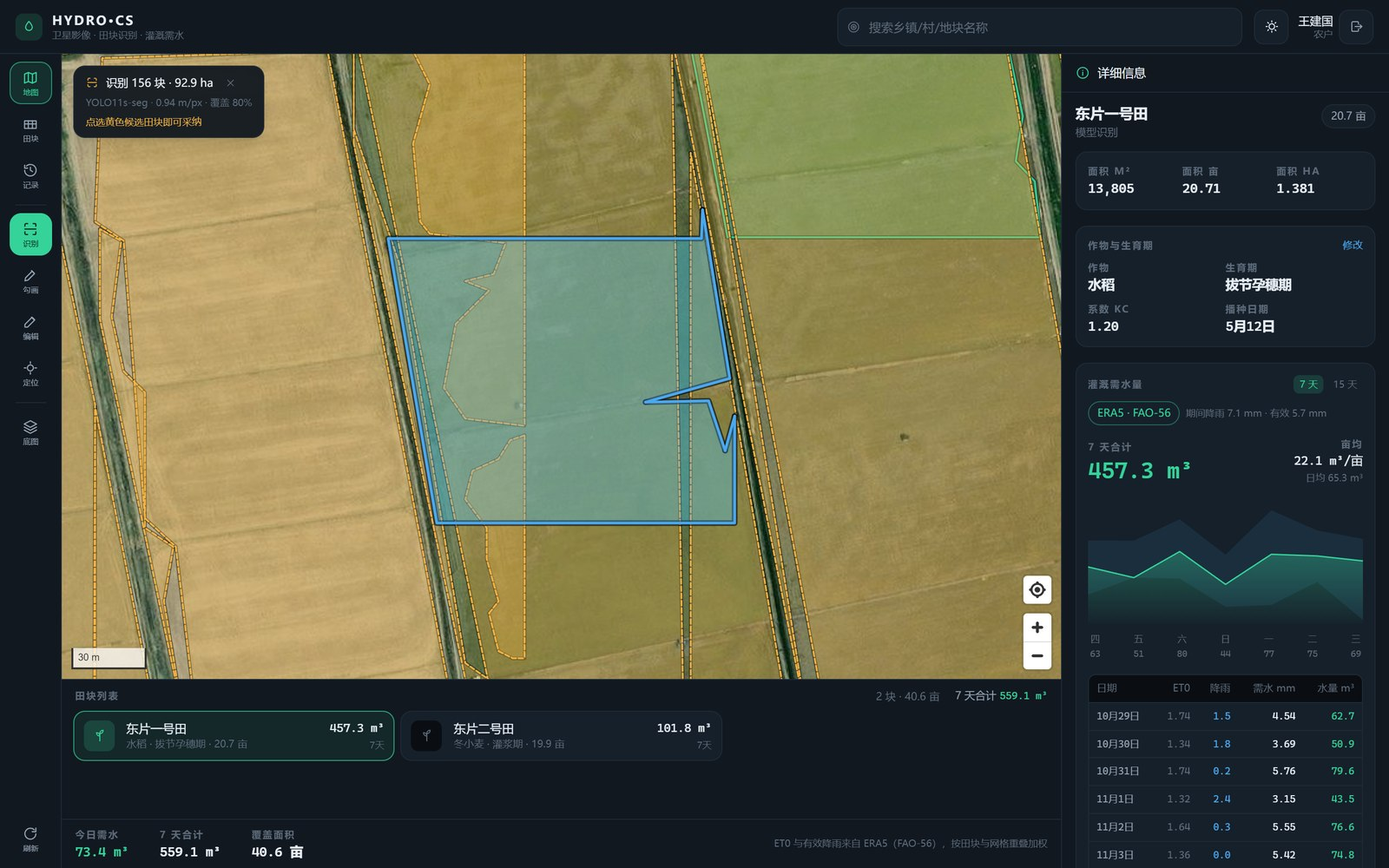
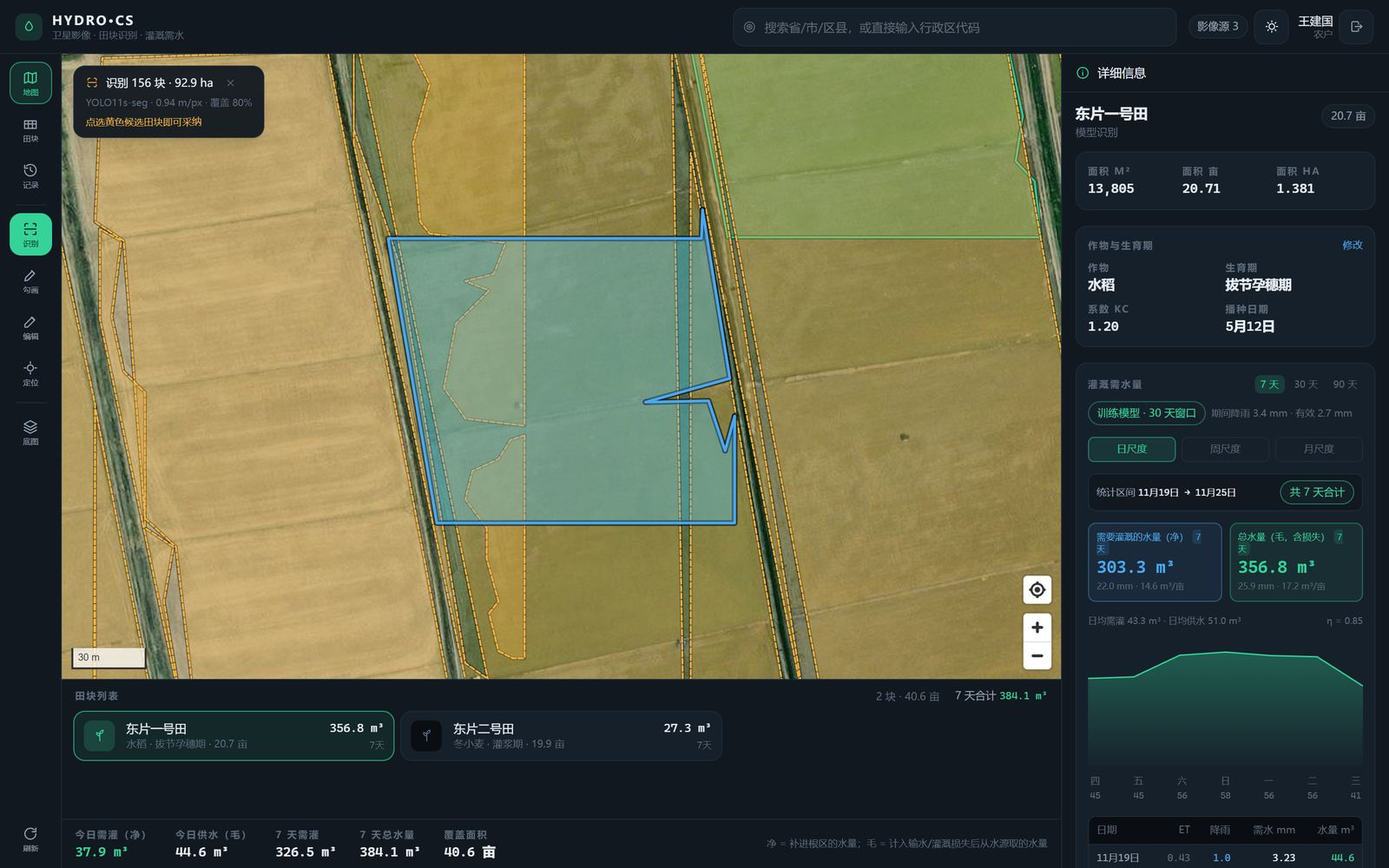
文档与截图：改为模型优先叙述，重拍全部界面截图
- README：需水量公式换成 Kc/Kc_ref × ET_模型 − Pe，补模型指标（2004 RMSE 0.523 / R² 0.882）、降级链，
  5.5 节改写为「系数固定、不再可调」并给出每个常量的出处
- README：资产表新增 et_model.joblib 行，目录树补 et_model / train_et_model，验证表更新为 35 passed 与实测净毛水量
- architecture：数据源表把 ET 模型列为主路径、ET0 降为降级；移除 params 表与 /admin/params，
  补 model-hgb / model-climatology 的口径说明
- 截图全部重拍：新增 admin-etmodel.jpg，删除 admin-params.jpg，其余按新界面（训练模型标签、净毛双卡）刷新

diff --git a/README.md b/README.md
@@ -3,7 +3,7 @@
 把「卫星影像 → 田块识别 → 手工修正 → 面积 → 作物生育期 → 灌溉需水量」串成一条手机能用的链路。
 
 - **前端**：移动优先 H5 / PWA（React 18 + TypeScript + Vite + Tailwind v4 + MapLibre GL）
-- **后端**：FastAPI（Python 3.12），跑 YOLO11s-seg 分割与蒸散网格解算，SQLite 存田块与记录
+- **后端**：FastAPI（Python 3.12），跑 YOLO11s-seg 分割，并用**训练好的 ET 预测模型**（30 天 ERA5 窗口 → 日蒸散）解算需水量，SQLite 存田块与记录
 - **离线**：IndexedDB 缓存我的田块与历史，断网可查可编辑，联网按 op_id 幂等同步
 
 ```
@@ -11,7 +11,7 @@
 ┌────────────────────────────────────┐        ┌────────────────────────────────────────┐
 │ MapLibre GL  卫星底图 + 田块 GeoJSON │        │ /imagery   瓦片代理·磁盘缓存·多源        │
 │ 顶点编辑（触摸友好）                 │        │ /segment   滑窗 YOLO11s-seg → 多边形     │
-│ IndexedDB    田块/记录副本           │ HTTPS  │ /irrigation ET 网格 × Kc → 需水量        │
+│ IndexedDB    田块/记录副本           │ HTTPS  │ /irrigation ET 模型 × Kc → 需水量        │
 │ 同步队列      离线编辑 → 增量合并     │<──────>│ /fields    田块权威存储（备份）           │
 └────────────────────────────────────┘        │ /auth /sync /admin                      │
                                               │ SQLite(WAL) → 可平滑迁 PostgreSQL/PostGIS│
@@ -50,9 +50,9 @@
 |---|---|---|
 | ![村镇搜索](docs/screenshots/search-village.jpg) | ![周](docs/screenshots/detail-weekly.jpg) | ![月](docs/screenshots/detail-monthly.jpg) |
 
-| 按行政区继承的模型系数 | 深缩放对齐（超出原生分辨率会提示） |
+| 服务状态与 ET 预测模型（管理端） | 深缩放对齐（超出原生分辨率会提示） |
 |---|---|
-| ![参数](docs/screenshots/admin-params.jpg) | ![深缩放](docs/screenshots/deep-zoom.jpg) |
+| ![模型](docs/screenshots/admin-etmodel.jpg) | ![深缩放](docs/screenshots/deep-zoom.jpg) |
 
 | 需灌水量（净）与总水量（毛）并列 | 我的田块：每块地的两个口径 |
 |---|---|
@@ -67,9 +67,13 @@
 | YOLO11s-seg 农田分割权重 `4.102_best.pt`（20 MB，单类 farmland） | `../农田识别分割.rar` → `weights/` | 复制到 `server/artifacts/weights/`，由 `app/services/segmentation.py` 加载 |
 | ETMonitor 日蒸散 0.25° 网格（2000–2004，1830 天 × 33 × 29） | `../2000-2004日尺度蒸散发数据集.rar` → `ERA5网格/` | `scripts/build_et_grid.py` 只抽取该目录（7.6 MB）并打包成 `et_grid.npz`（5.13 MB） |
 | **ERA5 逐小时气象（2000–2004，20 个变量，1.4 GB）** | `../2000-2004 era5数据/` | `scripts/build_era5_daily.py` 读 8 个变量并算出 `et0`（Penman–Monteith）与 `pe`（有效降雨），打包成 `era5_daily.npz`（38.5 MB） |
+| **训练好的日 ET 预测模型（0.78 MB）** | `../daily_et_window_study_code_20261016(1).zip` 的建模思路，用本仓库 ERA5 + ETMonitor 重训 | `scripts/train_et_model.py`：HistGradientBoosting，30 天窗口 × 6 变量 = 180 特征，2001–02 训练 / 2003 选窗 / 2004 测试，产出 `artifacts/models/et_model.joblib` |
 | **中国行政区划边界** | DataV.GeoAtlas（省/市边界）+ `modood/Administrative-divisions-of-China`（乡镇/村名册，同一套国标 adcode） | `scripts/build_admin_divisions.py`：省/市多边形 + 2728 区县中心点 + 3.2 万乡镇 + 49.9 万村，共约 23 MB |
 
-> 有了 ERA5，需水量走**教科书口径**：`Kc × ET0 − 有效降雨`。ETMonitor 网格保留为降级路径（ERA5 资产缺失时自动切换），不再参与主计算。
+> 需水量**主路径走训练模型**：`Kc(作物, 生育期) / Kc(参考作物) × ET_模型 − 有效降雨`。
+> ET_模型 由 ERA5 气象驱动、以 ETMonitor 日蒸散为标签，等价于把"物理公式 + 区域标定"换成学出来的映射；
+> 模型资产缺失时才退回 FAO-56 Penman–Monteith（`era5-pm`），再无则退回 ETMonitor 近似（`etmonitor`）。
+> 三条路径在响应里用 `method` 区分，界面直接显示当前用的是哪一条。
 
 ---
 
@@ -86,15 +90,16 @@
 │  │  ├─ repository.py           田块持久化与序列化
 │  │  ├─ seed.py                 演示账号与 4 块示范田
 │  │  ├─ routers/                auth · fields · segment · irrigation · imagery · sync · admin
-│  │  └─ services/               geo（测地线/GCJ-02）· imagery · segmentation · et_grid · irrigation
+│  │  └─ services/               geo（测地线/GCJ-02）· imagery · segmentation · et_grid · era5 · et_model · irrigation
 │  ├─ scripts/
 │  │  ├─ build_et_grid.py        rar → et_grid.npz（自动调用 Bandizip 抽取）
 │  │  ├─ build_era5_daily.py     逐小时 NC → 日尺度 + ET0 + Pe
+│  │  ├─ train_et_model.py       日尺度特征窗 → ET 模型（joblib），输出验证/测试指标
 │  │  ├─ build_admin_divisions.py 省/市边界 + 区县中心点 → 搜索索引
 │  │  ├─ smoke.py                端到端冒烟
 │  │  └─ debug_segment.py        识别可视化调试
-│  ├─ tests/test_core.py         17 个单元 + 接口测试
-│  └─ artifacts/                 et_grid.npz、weights/（gitignore）
+│  ├─ tests/test_core.py         35 个单元 + 接口测试
+│  └─ artifacts/                 et_grid.npz、era5_daily.npz、models/et_model.joblib、weights/
 └─ web/
    ├─ src/components/            MapCanvas · ToolRail · FieldSheet · DetailPanel · EditBar · IrrigationChart
    ├─ src/pages/                 Login · Workspace · MyFields · History · Admin
@@ -111,9 +116,10 @@
 cd server
 python -m pip install -r requirements.txt        # ultralytics / torch 体积较大，可先跳过用规则兜底
 
-# ② 生成三份资产（一次性；ERA5 约 3 分钟，行政区需要联网约 2 分钟）
+# ② 生成资产（一次性；ERA5 约 3 分钟，行政区需要联网约 2 分钟，训练约 1 分钟）
 python scripts/build_et_grid.py
 python scripts/build_era5_daily.py
+python scripts/train_et_model.py
 python scripts/build_admin_divisions.py
 
 # ③ 放好分割权重（可选：没有权重会自动降级为规则识别）
@@ -140,7 +146,7 @@ npm run build
 |---|---|---|---|
 | `farmer1` | `123456` | 农户 | 王建国，2 块田（水稻 / 冬小麦） |
 | `farmer2` | `123456` | 农户 | 李秀兰，2 块田（玉米 / 大豆） |
-| `admin` | `admin123` | 管理员 | 区域汇总、用户与参数 |
+| `admin` | `admin123` | 管理员 | 区域汇总、用户与模型状态 |
 
 演示坐标在**黄河三角洲**（`118.7996, 37.7994`，山东东营垦利）——这里地块方正、模型识别效果最好，且落在 ET 网格覆盖范围内。
 
@@ -184,56 +190,65 @@ npm run build
 ## 5. 需要水量怎么算的
 
 ```
-# 1) 数据侧：ERA5 逐小时 → 日尺度 → FAO-56
-Rn = ssr + str                              # 净辐射 MJ/m²/d（累计值先按前一小时归日）
-ET0 = [0.408Δ(Rn−G) + γ·900/(T+273)·u₂·VPD] / [Δ + γ(1+0.34u₂)]   # G≈0
+# 1) 数据侧：ERA5 逐小时 → 日尺度
+Rn  = ssr + str                             # 净辐射 MJ/m²/d（累计值先按前一小时归日）
+ET0 = [0.408Δ(Rn−G) + γ·900/(T+273)·u₂·VPD] / [Δ + γ(1+0.34u₂)]   # FAO-56，G≈0（仅作降级用）
 Pe  = min(P × 0.8, 35)                      # 日有效降雨，上限 35 mm
 
-# 2) 田块侧：按与 0.25° 网格的面积重叠加权（不是取一个点）
-ET0_field = Σ(wᵢ · ET0ᵢ) / Σwᵢ ；Pe_field 同理
-ETc       = Kc(作物, 生育期) · ET0_field · kc_scale
-净需水 In = max(0, ETc + 渗漏 − Pe_field)     # 水田渗漏按 3 mm/天
-毛需水 Ig = In / η                            # η 默认 0.85
-需灌水量 V_net   = In × A / 1000              # m³/天，补进根区的水
-总水量   V_gross = Ig × A / 1000              # m³/天，从水源实际取的水
+# 2) 模型侧：30 天 ERA5 滑窗 → 当日 ET（主路径）
+X        = [PRECIP, T2M, VPD, SSR, STR, U2M] × 最近 30 天 = 180 维
+ET_model = HGB(X)                           # 目标 = ETMonitor 日蒸散，单位 mm/day
+
+# 3) 田块侧：按与 0.25° 网格的面积重叠加权（不是取一个点）
+ET_field  = Σ(wᵢ · ETᵢ) / Σwᵢ ；Pe_field 同理
+ETc       = ET_field · Kc(作物, 生育期) / Kc_ref        # Kc_ref = 0.95（冬小麦中期）
+净需水 In = max(0, ETc + 渗漏 − Pe_field)               # 水田渗漏按 3 mm/天
+毛需水 Ig = In / η                                      # η = 0.85，固定
+需灌水量 V_net   = In × A / 1000                        # m³/天，补进根区的水
+总水量   V_gross = Ig × A / 1000                        # m³/天，从水源实际取的水
 ```
 
 两个口径全部同时返回并展示：日序列、周/月滚存、区间合计都带
 `net_volume_m3`（**需要灌溉的水量**）与 `gross_volume_m3`（**总水量**），
 界面上用蓝色/绿色两张卡片并列，避免把"作物需要多少"和"水泵要抽多少"混为一谈。
 
-- **预测**：未来 7/15 天取 2000–2004 年**同日序**的 ET 均值，同时给出 5 年最小/最大包络作为不确定性带。
+- **为什么除以 Kc_ref 再乘 Kc**：ETMonitor 的 ET 是"参考作物（草）在该气候下实际消耗的水"，
+  要给水稻/小麦/玉米换算，就按各自 Kc 与参考作物 Kc 的比值缩放，与 FAO-56 的 `ETc = Kc·ET0` 同构，
+  但 ET0 这一环由数据驱动、含区域气候标定，比纯公式更贴地面观测。
+- **模型指标**：2003 验证 RMSE **0.483** mm/day（R² 0.881）、2004 测试 RMSE **0.523** mm/day（MAE 0.360、R² 0.882），
+  观测均值 1.88 mm/day，即在日均 1.9 mm 的量级上误差约 0.5 mm；窗口 1/7/30 天对比见 `artifacts/models` 元数据。
 - **多时间尺度**：接口一次返回日序列 + `aggregates.weekly`（起始日起每 7 天滚动窗口）+ `aggregates.monthly`（自然月，首尾可为部分月）+ `cumulative` 累计；`days` 支持 1–180 天，前端在详情面板切换「日/周/月」。
-- **系数按区域继承**：`Kc_scale`、降雨利用系数、灌溉水利用系数都是 PM 链在不同气候区的标定值，
-  按 `全局 → 省 → 市` 三级继承，每个值都能追问“它来自哪一层”（`sources` 字段）。田块解算时按其所在市自动取用。
-- **域外降级**：坐标超出 ET 网格范围（华北大平原 lon 113.875–121.125 / lat 31.875–40.125）时退化为纬度-月序经验模型，并在响应里标 `extrapolated: true`。
-- **Pe 已接入**：由 ERA5 日降水 × 降雨利用系数（默认 1.0，可调）估算，日上限 35 mm；管理端可改成固定值强制覆盖。每次响应都带 `method` 字段（`era5-pm` / `etmonitor-inverse`）与 `assumptions` 文本，界面直接展示。
-- **降级路径**：若 `era5_daily.npz` 缺失，自动退回 ETMonitor 近似法（用区域作物系数反推 ET0、Pe 按 0），并在界面标注 `ETMonitor 近似`。
+- **预测（未来日期）**：ERA5 历史覆盖 2000–2004，超出该区间的日期（比如"今天"）取 2000–2004 年**同日序**的模型预测均值，
+  即"模型学到的气候态"，响应里 `source` 标为 `model-climatology`，画面显示为「气候态外推」。
+- **Pe 已接入**：由 ERA5 日降水估算，日上限 35 mm。
+- **降级链**：`et_model.joblib` 缺失 → FAO-56 `ET0`（`method: era5-pm`）；`era5_daily.npz` 也缺失 → ETMonitor 近似（`method: etmonitor`）。
+  每次响应都带 `method`、`et_basis` 与 `assumptions` 文本，界面直接展示当前用的哪一条。
+- **域外降级**：坐标超出网格范围（lon 114–121 / lat 32–40）时退化为纬度-月序经验模型，并在响应里标 `extrapolated: true`。
 
 面积一律用 WGS84 测地线公式（球面超额 + 曲率半径修正），实测与椭球真值偏差 <0.15%。
 
 ---
 
-## 5.5 系数为什么按行政区划分
+## 5.5 系数为什么固定、不再留给用户调
 
-`Kc_scale`、降雨有效利用系数、灌溉水利用系数不是普适常数，而是**彭曼公式链在某个气候区的标定值**：
-华北冬小麦区、东北一季玉米区、西北干旱灌区的 Kc 与降雨利用率本来就不同。所以参数按行政区层级继承：
+上一版把 `Kc_scale`、降雨利用系数、灌溉水利用系数做成了"按省/市继承、管理端可改"的参数层。
+**这一版已整体下线**（`ParamPanel.tsx`、`/admin/params` 接口、`services/params.py` 均已删除），原因：
 
-```
-内置默认  →  global  →  province:370000  →  city:370500
-```
+1. 这些系数本质是在替模型做区域标定；既然 ET 已由训练模型直接给出，再乘一个手调系数就是**双重标定**，容易把物理量调歪。
+2. 可调参数没有留痕的验证集，改一个数谁也无法判断是变好还是变坏；而模型有 2003/2004 的独立验证与测试指标可追溯。
 
-- 解析时逐层覆盖，响应里 `sources` 会写明每个值来自哪一层（`default` / `global` / `province:xxx` / `city:xxx`）。
-- 解算时按田块**所在市**自动取用，不需要用户在页面上选区域。
-- 管理端「模型参数」页可以选择任意省/市编辑；「清除覆盖」即回退到上一层。
+现在的口径是：**模型权重决定 ET，作物表决定 Kc，η 固定 0.85**。三个数都有出处、都能复算：
 
-| 参数 | 气候含义 |
-|---|---|
-| `kc_scale` | 对 PM 结果的系统性校准（干旱区常偏小、湿润区常偏大） |
-| `effective_rain_ratio` | 降水进根系的份额：干旱少雨区 0.85–0.95、湿润多雨区 0.6–0.75 |
-| `kc_reference` | 仅在 ERA5 缺失、退回 ETMonitor 近似法时使用（华北冬小麦 ≈0.95、南方水稻 ≈1.10） |
-| `efficiency` | 灌溉方式（渠灌 0.55–0.65 / 喷灌 0.75–0.85 / 滴灌 0.90–0.95），各区差别大故也按区域设 |
-| `effective_rain_mm_day` | 非 0 时强制覆盖降水估算，用于缺气象数据的老灌区 |
+| 量 | 取值 | 出处 |
+|---|---|---|
+| `ET` | 模型输出（mm/day） | `artifacts/models/et_model.joblib`，2004 测试 RMSE 0.523 |
+| `Kc` | 按作物 × 生育期查表（水稻 1.05–1.20、冬小麦 0.40–1.15、玉米 0.40–1.20、大豆 0.40–1.15） | `services/irrigation.py::CROPS`，FAO-56 表 11 |
+| `Kc_ref` | 0.95 | 域内主导作物冬小麦的中期 Kc |
+| `η` | 0.85 | 灌溉水利用系数（喷灌偏上、渠灌偏下），固定值 |
+| `渗漏` | 3 mm/天（仅水田） | 常规淹灌田间渗漏量经验值 |
+| `Pe` | `min(P × 0.8, 35)` | FAO-56 有效降雨简化式 |
+
+调参入口若将来还要开，应该挂在"模型重新训练/区域重标定"这条链上，而不是让使用者在线改一个系数。
 
 ## 6. 识别流水线
 
@@ -273,8 +288,7 @@ bbox + zoom
 | GET | `/api/v1/admin/meteo/status` \| `/fs?path=` | 气象立方状态 / 服务器目录浏览 |
 | POST | `/api/v1/admin/meteo/upload` \| `/scan` \| `/rebuild` | 上传 NC / 扫描服务器目录 / 按收件箱重建 |
 | POST | `/api/v1/sync` | 批量推送离线操作（op_id 幂等） |
-| GET | `/api/v1/admin/stats` \| `/users` \| `/fields` | 管理端 |
-| GET/PATCH | `/api/v1/admin/params?scope=` | 区域化系数：`global` / `province:370000` / `city:370500`；PATCH 传 `null` 清层 |
+| GET | `/api/v1/admin/stats` \| `/users` \| `/fields` | 管理端（`stats` 内含 `et_model` 指标） |
 
 ---
 
@@ -301,20 +315,23 @@ ERA5 缓存并重载。测试覆盖了「追加 + 覆盖」的合并语义。
 
 | 项目 | 结果 |
 |---|---|
-| 后端单测 + 接口测试 | `36 passed`（几何精度、FAO-56 复算、Kc 逻辑、周/月滚存、行政区检索与落区、瓦片象限裁切、气象合并语义、CRUD、越权、幂等同步、乐观锁冲突） |
+| 后端单测 + 接口测试 | `35 passed`（几何精度、FAO-56 复算、Kc 逻辑、周/月滚存、行政区检索与落区、瓦片象限裁切、气象合并语义、CRUD、越权、幂等同步、乐观锁冲突） |
+| ET 模型训练 | 2001–2002 训练（15 万样本）· 2003 验证选窗 · 2004 测试；1/7/30 天窗对比后取 30 天 |
+| ET 模型精度 | 2003 RMSE 0.483 mm/day（R² 0.881、MAE 0.335）；2004 RMSE 0.523 mm/day（R² 0.882、MAE 0.360），观测均值 1.88 mm/day |
+| 模型优先链路 | `2004-07-15` → ET 4.326 mm（`source: model`）；`2026-10-30` → ET 0.854 mm（`source: model-climatology`）；`method` = `model-hgb` |
 | 识别（默认演示视角，z18，0.54 m/px） | **156 个地块，合计 92.9 ha，覆盖画面 80%**（其余是道路、村舍、田埂） |
-| 需水解算 | 演示田 20.7 亩水稻：7 天 457.3 m³、亩均 22.1 m³、期间降雨 7.1 mm（有效 5.7 mm） |
+| 需水解算 | 演示田 20.7 亩水稻 7 天：需灌 303.3 m³（22.0 mm、亩均 14.7 m³）· 总水量 356.8 m³ |
 | ET 网格资产 | 1830 天 × 33 × 29，有效像元 1,551,840，ET 0.00–14.78 mm/day |
 | ERA5 日尺度资产 | 1827 天 × 33 × 29 × 8 变量（38.5 MB）；年均 ET0 2.40–2.70 mm/day、降水 1.86–3.02 mm/day |
-| 需水接口耗时 | 单田块 7 天 ≈ 42 ms；两田块汇总 ≈ 80 ms |
-| 前端构建 | `tsc --noEmit` 通过；`vite build` 1.05 MB JS / 298 KB gzip |
-| 浏览器巡检 | Playwright + Edge：桌面/手机双视口 + 搜索/勾画/行政区/气象 共 17 张截图，**控制台 0 错误** |
+| 需水接口耗时 | 单田块 7 天 ≈ 140 ms（含模型逐日推理）；两田块汇总 < 300 ms |
+| 前端构建 | `tsc --noEmit` 通过；`vite build` 1.06 MB JS / 305 KB gzip |
+| 浏览器巡检 | Playwright + Edge：桌面/手机双视口 + 搜索/勾画/行政区/气象/净毛/模型状态 共 20 张截图，**控制台 0 错误** |
 | 行政区汇总 | 东营市 370500：6 块田 / 2 户 / 113.4 亩 / 7 天 933 m³ |
 | 定位后影像 | 搜索「垦利」跳转后 `areTilesLoaded=true`，影像正常渲染 |
 | 深缩放对齐 | 放大到 z19：`queryRenderedFeatures` 仍命中田块、边界与影像贴合；超出原生分辨率时提示上采样 |
 | 村镇搜索 | `黄河口` → 黄河口镇（170 ms）；`张家庄` → 镇/乡/村委会共 8 条 |
-| 区域系数 | 东营市覆盖 `kc_scale=0.9` 后，该市田块 7 天需水 460.6→439.9 m³，`sources` 显示 `city:370500`；其他地区仍为全局值 |
-| 净/毛双口径 | 东片一号田 30 天：需灌 1.59 千m³（115.0 mm / 76.7 m³/亩）· 总水量 1.87 千m³（135.3 mm / 90.2 m³/亩），比值 = 1/η |
+| 模型状态可见 | 管理端概览显示「ET 预测模型 30 天窗口 · 180 特征」与「2001–2002 训练 · 2003 选窗 · 2004 测试 RMSE 0.52 mm · R² 0.882」 |
+| 净/毛双口径 | 东片一号田 30 天：需灌 1.30 千m³（94.3 mm / 62.9 m³/亩）· 总水量 1.53 千m³（111.0 mm / 74.0 m³/亩），比值 = 1/η |
 | 断网巡检 | 关网后刷新：应用外壳来自 SW 缓存，田块来自 IndexedDB，并显示「离线」标记 |
 
 复现：
@@ -322,22 +339,28 @@ ERA5 缓存并重载。测试覆盖了「追加 + 覆盖」的合并语义。
 ```powershell
 cd server; python -m pytest tests -q
 cd server; python scripts/smoke.py              # 登录→田块→需水→识别→管理端
+cd server; python scripts/train_et_model.py     # 重训 ET 模型并打印验证/测试指标
 cd server; python scripts/build_seed_fields.py  # 用识别结果重建演示田块
 cd server; python scripts/debug_segment.py      # 生成 seg_debug.png 目视检查
 cd web;    npm run build
 cd web;    node scripts/verify.mjs              # 需先启动 8000 端口的服务
 cd web;    node scripts/verify-offline.mjs
+cd web;    node scripts/verify-netgross.mjs
+cd web;    node scripts/verify-etmodel.mjs
 ```
 
 ---
 
 ## 10. 已知限制与下一步
 
-1. **预测用气候态**：ERA5 只到 2004 年，未来 7 天走「同日序 5 年气候态 + 最小/最大值包络」。要真正预报，需接入实时 ERA5/预报场，接口层已按 provider 预留。
+1. **预测用气候态**：ERA5 只到 2004 年，超出该区间的日期（含"今天"）走「模型同日序 5 年气候态」。要真正预报，需接入实时 ERA5/预报场，接口层已按 provider 预留。
    - 行政区落区用的是简化边界（0.01°），紧贴边界的田块可能归错相邻市；需要精确时可把 `--tolerance` 调到 0.003 重建。
    - 乡镇/村只有名称索引、没有坐标，选中后定位到所属区县中心；要精确到村可接高德 POI（`AMAP_KEY`）。
-2. **ET 的 ML 模型仍待接入**：`daily_et_window_study` 的 LSTM（180 天窗，RMSE 0.46 mm/day）需要训练权重，交付包里没有；现在的 ET0 是物理公式，不依赖 ML。
-3. **识别只在影像可见的时段有效**：地块边界随作物季相变化，建议每个生长季刷一次。
-4. **单机 SQLite**：田块量级到万级没问题；要多实例部署时把 `db.py` 换成 SQLAlchemy + PostGIS（几何字段已经是 GeoJSON + bbox，迁移成本低）。
-5. **瓦片离线只做了 LRU 缓存**：Service Worker 会缓存最近 220 张影像瓦片，没提前预取整片农田；长期离线巡田需要再加「离线下载当前区域」按钮。
-6. **多语言/适老化**：字号与对比度已按户外可读调过，但还没有大字模式与语音播报。
+2. **模型学的是"实际蒸散"而非"潜在需求"**：标签来自 ETMonitor 的水分限制型 ET，干旱年份土壤缺水会让实际 ET 低于潜在蒸散，此时模型可能**低估**灌溉需求；
+   湿润年份则可能略高。若要校正，正确做法是用灌溉实验田块做一次区域偏差订正（MBE），而不是在前端乘系数。
+   当前 2004 年 MBE = −0.151 mm/day（模型略偏低），可在 `train_et_model.py` 里加常数订正项重训。
+3. **模型只覆盖 2000–2004 / lon 114–121 / lat 32–40**：范围内 848/957 格点有标签；域外或年份外走气候态外推并明确标注，不做跨气候区外推。
+4. **识别只在影像可见的时段有效**：地块边界随作物季相变化，建议每个生长季刷一次。
+5. **单机 SQLite**：田块量级到万级没问题；要多实例部署时把 `db.py` 换成 SQLAlchemy + PostGIS（几何字段已经是 GeoJSON + bbox，迁移成本低）。
+6. **瓦片离线只做了 LRU 缓存**：Service Worker 会缓存最近 220 张影像瓦片，没提前预取整片农田；长期离线巡田需要再加「离线下载当前区域」按钮。
+7. **多语言/适老化**：字号与对比度已按户外可读调过，但还没有大字模式与语音播报。

diff --git a/docs/architecture.md b/docs/architecture.md
@@ -11,12 +11,14 @@
 | 能力 | 数据来源 | 本期状态 |
 |---|---|---|
 | 田块识别 | YOLO11s-seg（`4.102_best.pt`，单类 farmland） | 已跑通，实测 z18 影像 156 个地块、0.04–2.5 ha，边界贴合 |
-| 参考蒸散 ET0 | ERA5 逐小时 6 要素 → FAO-56 Penman–Monteith | 已接入，1827 天 × 33 × 29 |
-| 有效降雨 Pe | ERA5 日降水 × 利用系数（上限 35 mm/天） | 已接入，可被管理端固定值覆盖 |
-| 观测 ET（对照/降级） | ETMonitor 0.25° 日 ET 网格 2000–2004 | 已接入，仅在 ERA5 资产缺失时参与计算 |
-| ET 的 ML 预测（RF/XGB/LSTM…） | ERA5 六要素 → ET | **未接入**，训练权重不在包内；接口预留 |
+| **日 ET 预测（主路径）** | ERA5 6 要素 30 天滑窗 → HistGradientBoostingRegressor → ETMonitor 日蒸散 | **已接入并训练**，2003 验证 RMSE 0.483 / 2004 测试 RMSE 0.523 mm/day（R² 0.882） |
+| 参考蒸散 ET0（降级） | ERA5 逐小时 6 要素 → FAO-56 Penman–Monteith | 已接入，1827 天 × 33 × 29；模型资产缺失时启用 |
+| 有效降雨 Pe | ERA5 日降水 × 0.8（上限 35 mm/天） | 已接入 |
+| 观测 ET（对照/兜底） | ETMonitor 0.25° 日 ET 网格 2000–2004 | 已接入，ERA5 也缺失时才参与计算 |
 
-> 关键判断：需水量走 `Kc × ET0 − Pe` 的教科书口径；ETMonitor 网格降级为兜底。ERA5 只到 2004 年，未来日期的 ET0/Pe 用同日序 5 年气候态，并在响应里标记。
+> 关键判断：需水量走 `Kc / Kc_ref × ET_模型 − Pe`。模型的标签就是 ETMonitor 日蒸散，
+> 因此它替代了原先"ET0 物理公式 + 区域系数标定"这两步；ET0 保留下沉为降级路径。
+> ERA5 只到 2004 年，超出该区间的日期用模型的同日序 5 年气候态，并在响应里标记 `source: model-climatology`。
 
 ## 2. 架构
 
@@ -25,7 +27,7 @@
 ┌────────────────────────────────────┐        ┌────────────────────────────────────────┐
 │ MapLibre GL  卫星底图 + 田块 GeoJSON │        │ /api/imagery   瓦片代理·磁盘缓存·多源     │
 │ Terra-draw 式顶点编辑（触摸友好）     │        │ /api/segment   滑窗 YOLO11s-seg → 多边形 │
-│ IndexedDB    我的田块/历史/预测副本   │ HTTPS  │ /api/irrigation ET 网格 × Kc → 需水量    │
+│ IndexedDB    我的田块/历史/预测副本   │ HTTPS  │ /api/irrigation ET 模型 × Kc → 需水量    │
 │ 同步队列      离线编辑 → 增量合并      │<──────>│ /api/fields    田块权威存储（备份）        │
 │ Service Worker 应用外壳 + 瓦片缓存    │        │ /api/auth · /api/sync · /api/admin      │
 └────────────────────────────────────┘        │ SQLite(WAL)  →  可平滑迁 PostgreSQL/PostGIS│
@@ -90,22 +92,32 @@ bbox + zoom
 # ERA5 逐小时 -> 日尺度（累计量按前一小时归日，缺 24 小时记 NaN）
 T   = mean(t2m) - 273.15 ；VPD = es(T) - es(Td) ；u2 = u10*4.87/ln(67.8*10-5.42)
 Rn  = (ssr + str)/1e6           # 净辐射 MJ/m2/day
-ET0 = [0.408Δ(Rn-G) + γ·900/(T+273)·u2·VPD] / [Δ + γ(1+0.34u2)]   # G≈0
-Pe  = min(P * 降雨利用系数, 35)  # 日有效降雨
+ET0 = [0.408Δ(Rn-G) + γ·900/(T+273)·u2·VPD] / [Δ + γ(1+0.34u2)]   # G≈0（降级路径用）
+Pe  = min(P * 0.8, 35)          # 日有效降雨
+
+# 主路径：30 天 ERA5 滑窗 -> 当日 ET（模型）
+X        = [PRECIP, T2M, VPD, SSR, STR, U2M] × 最近 30 天        # 180 维
+ET_model = HGB(X)                                               # mm/day，标签 = ETMonitor 日蒸散
 
 # 田块 -> 网格：按与 0.25° 网格的面积重叠加权（不是单点取值）
-ET0_field = Σ(w_i · ET0_i) / Σ w_i ；Pe_field 同理
-ETc      = Kc(作物, 生育期) · ET0_field · kc_scale
-净需水   In = max(0, ETc + 渗漏 - Pe_field)   # mm/day，水田渗漏 3 mm/天
-毛需水   Ig = In / η                          # mm/day
-日水量   V  = Ig(m) * A(m2) / 1000            # m3/day
+ET_field  = Σ(w_i · ET_i) / Σ w_i ；Pe_field 同理
+ETc       = ET_field · Kc(作物, 生育期) / Kc_ref                # Kc_ref = 0.95
+净需水    In = max(0, ETc + 渗漏 - Pe_field)                     # mm/day，水田渗漏 3 mm/天
+毛需水    Ig = In / η                                           # mm/day，η = 0.85
+日水量    V_net   = In * A / 1000        # m3/day，补进根区
+日总水量  V_gross = Ig * A / 1000        # m3/day，水源实取
 ```
 
-- `Pe`（有效降雨）：ERA5 日降水 × `effective_rain_ratio`（默认 1.0）并封顶 35 mm/天；管理端可用 `effective_rain_mm_day` 强制固定值。
-- **系数作用域**：`Kc` 校准、降雨利用系数、灌溉水利用系数按 `global → province:XXX → city:XXX` 继承
-  （`services/params.py`），田块解算时按其所在市解析；响应里 `parameter_scope` 给出取值与来源。
-- 降级：`era5_daily.npz` 缺失时自动退回 ETMonitor 近似法（区域 Kc 反推 ET0、Pe 记 0），响应 `method` 字段区分。
-- 预测：取 2000–2004 年**同一天序**的 ET0/降水均值作为未来 7 天期望曲线，并给出 5 年最小/最大包络作为不确定性带；域外坐标退化为纬度-月序正弦经验模型并标记 `extrapolated=true`。
+- **模型**：`HistGradientBoostingRegressor`，180 特征，训练集 2001–2002（15 万样本）、验证集 2003（4 万）、测试集 2004（4 万）；
+  窗口 1/7/30 天三选一，验证 RMSE 0.544 → 0.511 → **0.483**，故取 30 天。产物 `artifacts/models/et_model.joblib`（0.78 MB）。
+- **为什么除以 Kc_ref**：模型输出的是参考作物在该气候下实际消耗的水，乘 `Kc/Kc_ref` 才能换算到具体作物，
+  与 `ETc = Kc·ET0` 同构，但把 ET0 那一步换成了数据驱动的映射。
+- `Pe`（有效降雨）：ERA5 日降水 × 0.8 并封顶 35 mm/天，固定式（不再可调）。
+- **系数不再是可调参数层**：`services/params.py`、`/admin/params`、管理端参数字页已整体删除；
+  现在只有 `Kc` 表（FAO-56）、`Kc_ref`、`η`、渗漏量四个常量，全部写死在 `services/irrigation.py` 并附出处。
+- 降级：`et_model.joblib` 缺失 → `era5-pm`（FAO-56 ET0）；`era5_daily.npz` 也缺失 → `etmonitor`（区域 Kc 反推、Pe 记 0）。
+  响应里 `method` ∈ {`model-hgb`, `era5-pm`, `etmonitor`, `mixed`}，逐日 `source` ∈ {`model`, `model-climatology`, `era5-pm`, `etmonitor`}。
+- 预测：超出 2000–2004 的日期取模型在**同一天序**上的 5 年均值（`model-climatology`）；域外坐标退化为纬度-月序正弦经验模型并标记 `extrapolated=true`。
 - 输出同时给 `m³/day`、`m³/week`、`亩均方量`，农户看得懂的量纲优先。
 
 ## 7. API
@@ -129,8 +141,7 @@ ETc      = Kc(作物, 生育期) · ET0_field · kc_scale
 | POST | `/sync` | 批量推送离线操作，返回权威副本 |
 | GET | `/admin/users` `PATCH` `/admin/users/{id}` | 用户管理 |
 | GET | `/admin/fields` | 全部田块 + 归属 |
-| GET | `/admin/stats` | 覆盖率、活跃用户、区域总需水 |
-| GET/PATCH | `/admin/params?scope=` | 区域化系数（global / province / city 三级继承） |
+| GET | `/admin/stats` | 覆盖率、活跃用户、区域总需水、`et_model` 指标 |
 | GET | `/geo/search` `/geo/locate` `/geo/regions` | 行政区模糊搜索 / 坐标反查 / 层级列表 |
 | GET | `/admin/regions/overview` `/admin/regions/summary` | 行政区需水汇总与用水户统计 |
 | GET/POST | `/admin/meteo/status` `/fs` `/upload` `/scan` `/rebuild` | 气象数据运维 |
@@ -175,8 +186,10 @@ fields(id, owner_id, name, crop, stage_key, plant_date, geom_json, bbox_minx/min
        created_at, updated_at, deleted_at, rev)
 irrigation_logs(id, field_id, computed_at, days, payload_json, request_json)
 sync_ops(op_id PK, user_id, kind, entity_id, payload_json, applied_at)   -- 幂等去重
-params(key PK, value_json, updated_at)
 ```
+
+> 原先的 `params(key, value_json)` 参数覆盖表已随"参数微调"功能一并移除；`db.py` 的迁移脚本会跳过它的创建，
+> 老库里的这张表不读取、也不影响查询。
 
 ## 9. 前端布局（三形态）
 
